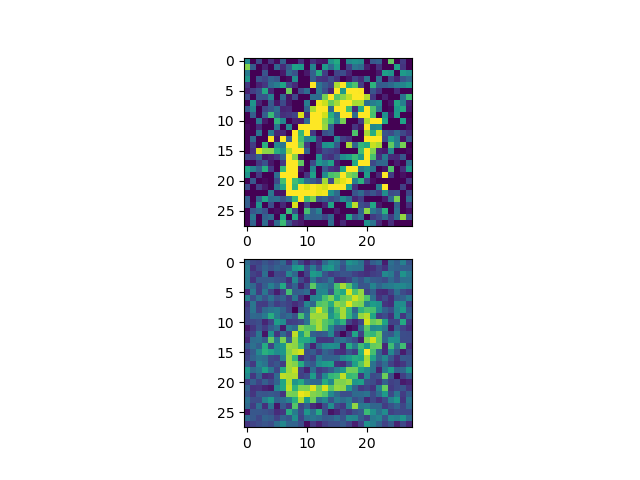
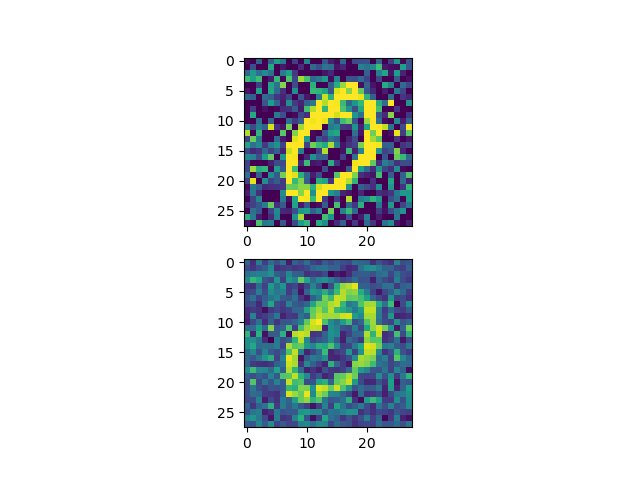
Update to 15 pca

Changed region(s): [[0.375, 0.5312, 0.6562, 0.9062], [0.375, 0.125, 0.6562, 0.4688]]

diff --git a/noise.py b/noise.py
@@ -38,12 +38,11 @@ def main():
     images_training_noise = create_noise(images_training)
     images_testing_noise = create_noise(images_testing)
 
-    images_training_pca_noise, images_testing_pca_noise = create_training_and_testing_data(images_training_noise, labels_training, images_testing_noise, labels_testing)
+    images_training_pca_noise, images_testing_pca_noise = create_training_and_testing_data(images_training_noise, labels_training, images_testing_noise, labels_testing, n=15)
 
     pca_accuracy_list = deque()
     accuracy_list = deque()
     print('Starting classification')
-
 
     clf = RandomForestClassifier(n_estimators=100)
     clf = clf.fit(images_training_noise, labels_training)

diff --git a/pca.py b/pca.py
@@ -62,11 +62,10 @@ def main():
     images_training_noise = create_noise(images_training)
 
     images_training_noise = np.array(images_training_noise)
-    print(images_training_noise.shape)
     x_hat, D = convert_pca(images_training_noise[1])
     data = np.array(images_training_noise[1]).reshape(28, 28)
     plot_demo(data, x_hat, fname='Noise_Comparison')
-    plot_scree(D, name='Scree_Plot_Noise')
+    plot_scree(D, n=15, name='Scree_Plot_Noise')
 
 if __name__ == "__main__":
     main()
